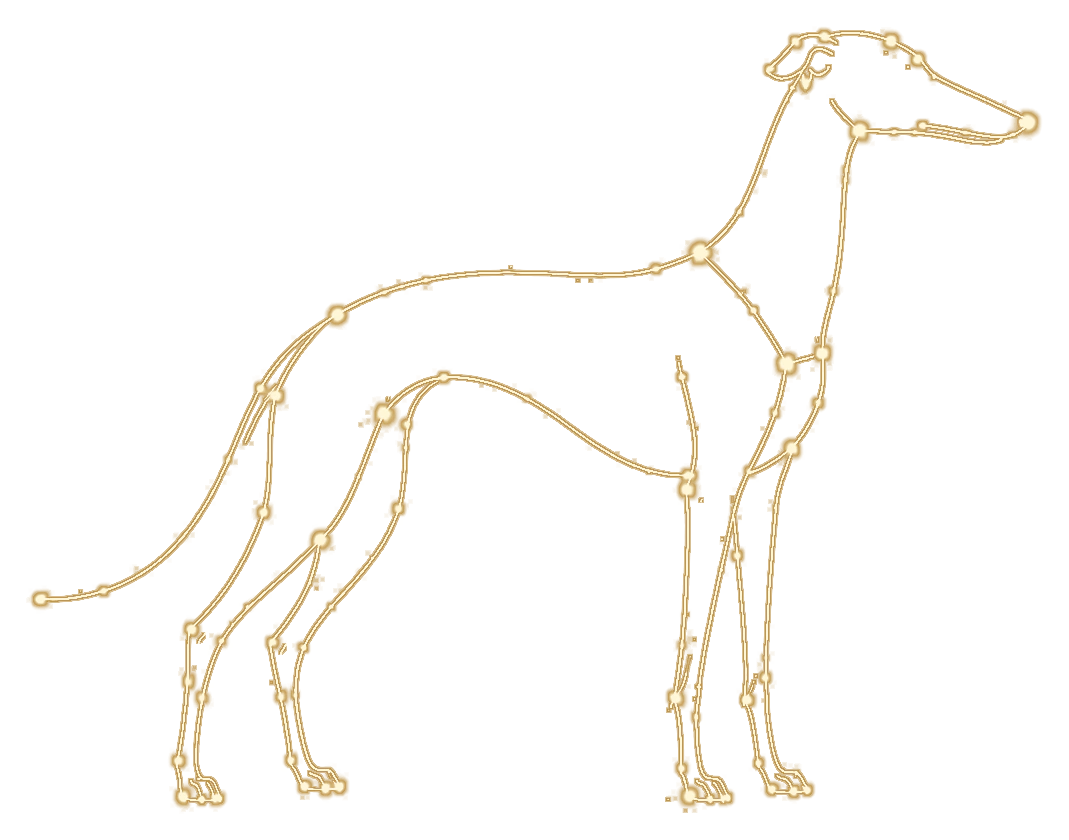
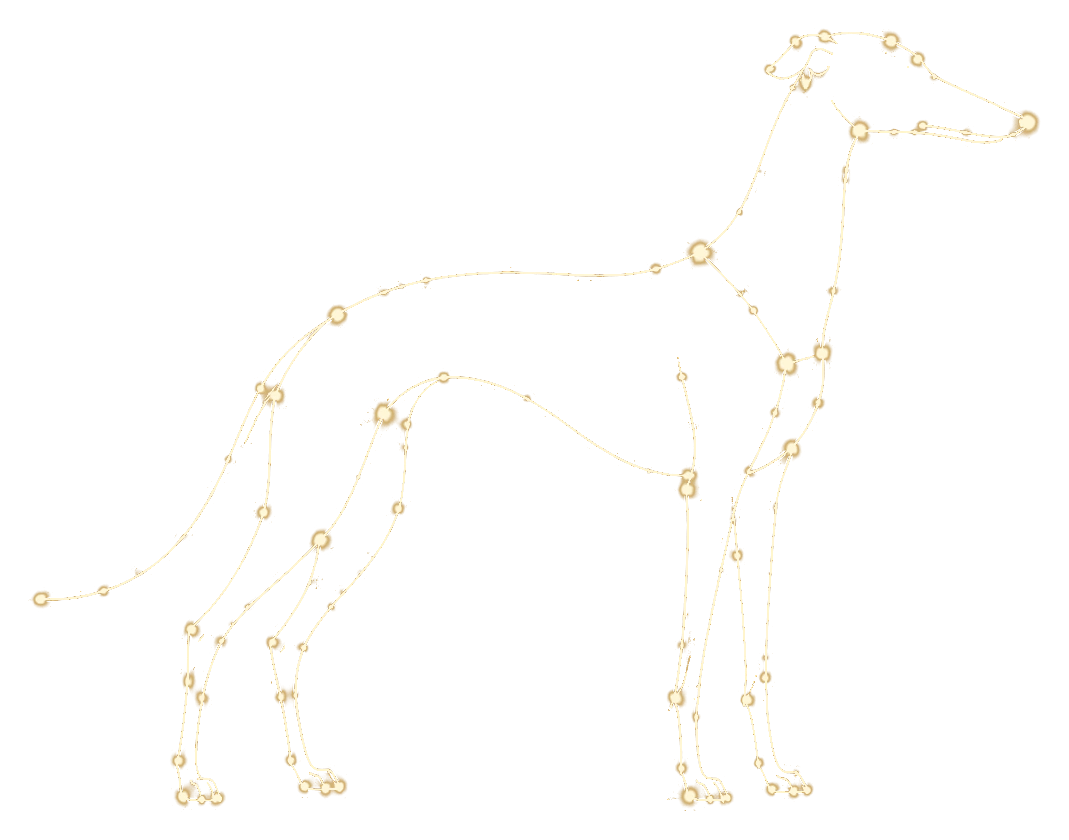
Correct hero depth and mascot point motion

diff --git a/src/app/home/AtlasHeroWorld.module.css b/src/app/home/AtlasHeroWorld.module.css
@@ -1,5 +1,5 @@
 .hero {
-  background: #fbfaf6;
+  background: #f1eee7;
   isolation: isolate;
   min-height: 720px;
   overflow: hidden;
@@ -8,27 +8,28 @@
 
 .hero::before {
   background:
-    radial-gradient(ellipse 30% 72% at 60% 46%, rgba(253, 252, 247, 0.96), transparent 76%),
-    radial-gradient(ellipse 42% 98% at 82% 38%, rgba(156, 184, 204, 0.62), transparent 72%),
-    radial-gradient(ellipse 45% 112% at 106% 65%, rgba(83, 124, 158, 0.58), transparent 72%),
-    radial-gradient(ellipse 22% 50% at 75% 72%, rgba(224, 239, 239, 0.82), transparent 78%),
-    linear-gradient(105deg, transparent 29%, rgba(247, 248, 245, 0.72) 43%, rgba(216, 229, 237, 0.42) 64%, rgba(137, 165, 187, 0.35));
+    radial-gradient(ellipse 36% 44% at 64% 84%, rgba(78, 126, 153, 0.42), transparent 82%),
+    radial-gradient(ellipse 58% 118% at 103% 48%, rgba(72, 111, 147, 0.54), rgba(116, 151, 177, 0.4) 42%, rgba(187, 207, 216, 0.2) 70%, transparent 88%),
+    radial-gradient(ellipse 48% 92% at 76% 65%, rgba(113, 174, 166, 0.2), transparent 78%),
+    radial-gradient(ellipse 54% 92% at 50% 43%, rgba(249, 247, 241, 0.58), rgba(230, 232, 228, 0.28) 56%, transparent 86%),
+    linear-gradient(102deg, rgba(245, 242, 235, 0.18), rgba(219, 226, 226, 0.34) 43%, rgba(128, 159, 181, 0.42) 73%, rgba(81, 120, 153, 0.5));
   content: "";
   inset: 0;
-  mask-image: linear-gradient(to right, transparent 25%, rgba(0, 0, 0, 0.34) 39%, black 58%);
   pointer-events: none;
   position: absolute;
 }
 
 .hero::after {
-  background: linear-gradient(to bottom, transparent, rgba(247, 242, 234, 0.68) 58%, var(--atlas-field-warm));
+  background:
+    radial-gradient(ellipse 29% 118% at 64% 112%, rgba(92, 136, 157, 0.24), transparent 74%),
+    linear-gradient(to bottom, transparent, rgba(241, 237, 229, 0.32) 62%, rgba(236, 231, 222, 0.64));
   bottom: 0;
   content: "";
   height: 176px;
   inset-inline: 0;
   pointer-events: none;
   position: absolute;
-  z-index: 8;
+  z-index: 3;
 }
 
 .copyShell {
@@ -114,7 +115,7 @@
 
 .hazeDawn {
   animation: haze-dawn 24s ease-in-out 2s infinite;
-  background: rgba(255, 252, 242, 0.78);
+  background: rgba(255, 252, 242, 0.66);
   height: 56%;
   left: 43%;
   top: 18%;
@@ -123,7 +124,7 @@
 
 .hazeBlue {
   animation: haze-blue 22s ease-in-out 4s infinite;
-  background: rgba(102, 142, 174, 0.3);
+  background: rgba(91, 133, 167, 0.3);
   height: 88%;
   left: 62%;
   top: -4%;
@@ -132,7 +133,7 @@
 
 .hazeTeal {
   animation: haze-teal 27s ease-in-out 7s infinite;
-  background: rgba(114, 177, 168, 0.2);
+  background: rgba(100, 166, 158, 0.2);
   height: 47%;
   left: 59%;
   top: 47%;
@@ -141,7 +142,7 @@
 
 .hazeViolet {
   animation: haze-violet 26s ease-in-out 1s infinite;
-  background: rgba(123, 121, 168, 0.22);
+  background: rgba(111, 109, 158, 0.22);
   height: 54%;
   left: 83%;
   top: 33%;
@@ -151,15 +152,15 @@
 .worldLens {
   animation: lens-breathe 28s ease-in-out 1.8s infinite;
   background:
-    radial-gradient(ellipse at 41% 43%, rgba(253, 254, 250, 0.88), transparent 24%),
-    radial-gradient(ellipse at 65% 52%, rgba(173, 203, 217, 0.28), transparent 48%),
-    radial-gradient(ellipse at 88% 64%, rgba(79, 118, 153, 0.25), transparent 60%);
-  border: 1px solid rgba(119, 151, 175, 0.2);
-  box-shadow: inset 0 0 110px rgba(248, 251, 248, 0.62), 0 0 90px rgba(172, 198, 212, 0.2);
-  height: 118%;
-  left: 43%;
-  top: -13%;
-  width: 69%;
+    radial-gradient(ellipse at 35% 44%, rgba(251, 250, 246, 0.58), transparent 28%),
+    radial-gradient(ellipse at 64% 54%, rgba(151, 190, 207, 0.28), transparent 54%),
+    radial-gradient(ellipse at 90% 62%, rgba(69, 109, 145, 0.26), transparent 68%);
+  border: 0;
+  box-shadow: inset 0 0 132px rgba(241, 247, 246, 0.36);
+  height: 126%;
+  left: 34%;
+  top: -17%;
+  width: 84%;
 }
 
 .trajectoryField {
@@ -181,6 +182,7 @@
 .relationship {
   fill: none;
   stroke-linecap: round;
+  stroke-linejoin: round;
   vector-effect: non-scaling-stroke;
 }
 
@@ -245,8 +247,10 @@
 }
 
 .related {
-  animation: none;
+  animation: relation-focus-draw 0.78s cubic-bezier(0.18, 0.72, 0.22, 1) forwards;
   opacity: 1;
+  stroke-dasharray: 320;
+  stroke-dashoffset: 0;
   stroke-width: 1.75;
 }
 
@@ -629,6 +633,7 @@
 @keyframes orbit-arrive { to { opacity: 0.88; } }
 @keyframes fine-arrive { to { opacity: 0.6; } }
 @keyframes relation-arrive { to { opacity: 0.62; } }
+@keyframes relation-focus-draw { from { opacity: 0.28; stroke-dashoffset: 320; } to { opacity: 1; stroke-dashoffset: 0; } }
 @keyframes cluster-arrive { to { opacity: 0.66; } }
 @keyframes anchor-arrive { from { opacity: 0; scale: 0.76; } to { opacity: 1; scale: 1; } }
 @keyframes point-arrive { to { opacity: 0.48; } }
@@ -678,10 +683,10 @@
 
   .hero::before {
     background:
-      radial-gradient(ellipse 100% 52% at 70% 77%, rgba(151, 179, 199, 0.62), transparent 72%),
-      radial-gradient(ellipse 74% 44% at 108% 66%, rgba(79, 117, 151, 0.44), transparent 75%),
-      radial-gradient(ellipse 58% 35% at 50% 71%, rgba(248, 252, 250, 0.92), transparent 76%);
-    mask-image: linear-gradient(to bottom, transparent 37%, rgba(0, 0, 0, 0.66) 49%, black 63%);
+      radial-gradient(ellipse 90% 50% at 34% 82%, rgba(244, 241, 234, 0.5), transparent 78%),
+      radial-gradient(ellipse 112% 64% at 76% 78%, rgba(116, 158, 183, 0.58), transparent 78%),
+      radial-gradient(ellipse 84% 52% at 108% 66%, rgba(69, 109, 145, 0.48), transparent 80%),
+      linear-gradient(to bottom, rgba(242, 239, 232, 0.16) 24%, rgba(194, 210, 217, 0.28) 54%, rgba(100, 139, 166, 0.4));
   }
 
   .copyShell {

diff --git a/src/app/home/AtlasHeroWorld.tsx b/src/app/home/AtlasHeroWorld.tsx
@@ -38,6 +38,19 @@ type SignatureCluster = {
   y: number;
 };
 
+function approvedStarPoints(
+  stars: readonly (readonly [xPercent: number, yPercent: number])[],
+  width: number,
+  height: number,
+): readonly SignaturePoint[] {
+  return stars.map(([xPercent, yPercent], index) => {
+    const x = 66 - width / 2 + (xPercent / 100) * width;
+    const y = 48 - height / 2 + (yPercent / 100) * height;
+    const size = index % 7 === 0 ? 3 : index % 3 === 0 ? 2.5 : 2;
+    return [x, y, x, y, size] as const;
+  });
+}
+
 const anchors: readonly AnchorDefinition[] = [
   { id: "question", label: "QUESTION", x: 52, y: 48, mobileX: 16, mobileY: 49, depth: "major" },
   { id: "jurisdiction", label: "JURISDICTION", x: 68, y: 20, mobileX: 39, mobileY: 32, depth: "major" },
@@ -110,17 +123,36 @@ const signatureClusters: readonly SignatureCluster[] = [
   {
     id: "fox", label: "Fox constellation", x: 82, y: 13, mobileX: 73, mobileY: 7,
     paths: ["M18 26Q27 10 38 31", "M62 31Q75 10 82 28", "M28 45L50 68L72 45", "M73 59Q95 60 84 79"],
-    points: [[12, 47, 18, 26, 3], [39, 8, 38, 31, 2], [72, 14, 62, 31, 2.5], [109, 43, 82, 28, 3], [29, 78, 28, 45, 2], [65, 63, 72, 45, 2.5], [91, 84, 50, 68, 3], [119, 65, 84, 79, 1.8]],
+    points: approvedStarPoints([
+      [6.5, 35.2], [12.9, 15.1], [14.2, 59.5], [25.9, 92.2], [30, 75.3], [30.1, 93.9], [30.5, 27.3], [34.2, 80],
+      [36.1, 9.7], [37.8, 58.4], [41.4, 32], [43.6, 49.6], [47.3, 71.4], [50.6, 64.8], [54.9, 47.6], [56.9, 93.4],
+      [65.1, 69.5], [67.2, 7.1], [67.5, 18.8], [67.9, 42.5], [69.1, 25.2], [72.9, 75.4], [74.3, 81.6], [76.4, 14.6],
+      [78.3, 61.6], [78.3, 93.9], [79.9, 67.5], [80.4, 7], [81.5, 83.2], [81.9, 36.8], [85.5, 20.7], [92.1, 30],
+    ], 222, 170),
   },
   {
     id: "cat", label: "Cat constellation", x: 88, y: 76, mobileX: 76, mobileY: 78,
     paths: ["M22 34L31 17L41 34", "M59 34L70 17L78 36", "M30 47L50 69L72 47", "M72 62Q91 60 89 80"],
-    points: [[12, 34, 22, 34, 2.5], [35, 9, 31, 17, 2], [68, 12, 41, 34, 3], [112, 32, 70, 17, 2], [27, 76, 78, 36, 2.5], [61, 63, 30, 47, 1.8], [90, 84, 72, 47, 3], [119, 67, 50, 69, 2], [79, 28, 89, 80, 1.8]],
+    points: approvedStarPoints([
+      [6.1, 37.5], [6.2, 17.6], [7.4, 29.2], [13.7, 94.4], [13.9, 57.6], [14.3, 50], [14.5, 44.7], [14.8, 22],
+      [17.5, 70], [18.1, 94.9], [18.2, 81.6], [19.6, 89.6], [23.5, 66.2], [25.5, 20.8], [26.6, 94.5], [30.9, 82.8],
+      [31.7, 14.6], [35, 39], [35.1, 73.2], [35.1, 94.3], [39.3, 30.7], [41.6, 88.5], [42.1, 48.7], [46.4, 70],
+      [53.7, 58.9], [55.6, 18.4], [58.9, 94.3], [59.2, 10], [62.2, 54.5], [64.2, 87.3], [69.9, 38.7], [72, 5.2],
+      [72, 69.5], [73.5, 16], [74.1, 51.3], [78.4, 65.4], [80.4, 84.2], [81.4, 29.1], [82.4, 76.8], [86.3, 39.1],
+      [87.6, 10.4], [94.2, 21.7],
+    ], 150, 174),
   },
   {
     id: "dog", label: "Dog constellation", x: 63, y: 84, mobileX: 28, mobileY: 88,
     paths: ["M18 31Q28 20 38 38", "M62 38Q73 20 82 32", "M30 46L49 69", "M49 69L70 46", "M40 72Q57 83 76 70"],
-    points: [[10, 48, 18, 31, 2], [33, 11, 38, 38, 2.5], [69, 14, 62, 38, 2], [109, 40, 82, 32, 3], [24, 78, 30, 46, 2], [61, 64, 70, 46, 2.5], [91, 83, 49, 69, 3], [118, 65, 40, 72, 1.8], [78, 27, 76, 70, 2]],
+    points: approvedStarPoints([
+      [3.8, 71.3], [16.7, 90.5], [17.3, 94.5], [17.7, 80.9], [17.9, 74.9], [18.8, 83], [19.7, 95], [24.6, 60.9],
+      [25.2, 46.8], [25.5, 76.5], [26.7, 82.8], [27.2, 90.4], [28.6, 93.5], [30, 64.2], [31.1, 93.6], [31.5, 37.5],
+      [36, 49.3], [37.2, 60.5], [37.9, 50.5], [41.5, 44.9], [61.3, 31.9], [63.3, 83], [63.7, 91.4], [64.4, 57.6],
+      [64.5, 94.7], [65.5, 30.1], [68.9, 66.1], [69.9, 83.3], [71.5, 80.6], [72.2, 93.9], [73.6, 43.3], [74, 53.4],
+      [74.4, 5], [74.8, 94], [75.1, 9.8], [76.9, 41.9], [77.1, 4.3], [80.4, 15.5], [83.3, 4.9], [85.8, 7],
+      [86.1, 15.1], [95.9, 14.8],
+    ], 222, 174),
   },
 ];
 
@@ -153,7 +185,7 @@ function AtlaslingCluster({ cluster }: { cluster: SignatureCluster }) {
         <i
           className={styles.clusterPoint}
           key={`${cluster.id}-${index}`}
-          style={{ "--cluster-point-size": `${size}px`, "--rest-x": `${restX}px`, "--rest-y": `${restY}px`, "--shape-dx": `${shapeX - restX}px`, "--shape-dy": `${shapeY - restY}px` } as CSSProperties}
+          style={{ "--cluster-point-size": `${size}px`, "--point-build-delay": `${index * 0.065}s`, "--rest-x": `${restX}px`, "--rest-y": `${restY}px`, "--shape-dx": `${shapeX - restX}px`, "--shape-dy": `${shapeY - restY}px` } as CSSProperties}
         />
       ))}
     </div>
@@ -183,7 +215,7 @@ export function AtlasHeroWorld({ body, eyebrow, line1, line2, line3 }: AtlasHero
 
   return (
     <section className={styles.hero}>
-      <div className={styles.world} data-active-anchor={activeAnchor ?? undefined} onPointerLeave={() => setActiveAnchor(null)} onPointerMove={handlePointerMove}>
+      <div className={styles.world} data-active-anchor={activeAnchor ?? undefined} data-atlas-hero-world onPointerLeave={() => setActiveAnchor(null)} onPointerMove={handlePointerMove}>
         <div aria-hidden="true" className={styles.atmosphericCanvas}>
           <span className={`${styles.haze} ${styles.hazeDawn}`} />
           <span className={`${styles.haze} ${styles.hazeBlue}`} />

diff --git a/src/app/home/fox-constellation-proof.css b/src/app/home/fox-constellation-proof.css
@@ -1,6 +1,7 @@
 /* Atlasling constellation silhouettes.
-   Resting state: trigger stars only. Hover/focus: airy recognisable silhouettes.
-   No filled mascot bodies, no facial detail reconstruction, no row layout. */
+   Resting state: trigger stars only. World hover: approved constellation stars
+   assemble without connector lines. Direct mascot hover/focus: the complete
+   approved constellation holds still. */
 
 [data-atlasling-cluster] {
   animation: none !important;
@@ -8,9 +9,21 @@
   z-index: 8 !important;
 }
 
-[data-atlasling-cluster] > svg,
-[data-atlasling-cluster] > i {
+[data-atlasling-cluster] > svg {
   display: none !important;
+}
+
+[data-atlasling-cluster] > i {
+  animation: none !important;
+  background: radial-gradient(circle, rgba(255, 255, 252, 1) 0 28%, var(--atlasling-star) 34% 62%, transparent 72%) !important;
+  box-shadow: 0 0 5px 1px var(--atlasling-glow), 0 0 11px 2px rgba(248, 250, 246, 0.54) !important;
+  display: block !important;
+  height: calc(var(--cluster-point-size) * 1.45) !important;
+  opacity: 0;
+  transform: translate(-50%, -50%) scale(0.35);
+  transition: none !important;
+  width: calc(var(--cluster-point-size) * 1.45) !important;
+  z-index: 2;
 }
 
 /* One quiet trigger-star per mascot. The cluster positions remain the authored
@@ -35,16 +48,19 @@
 }
 
 [data-atlasling-cluster="fox"] {
+  --cluster-build-offset: 0s;
   --atlasling-star: #d8a748;
   --atlasling-glow: rgba(216, 167, 72, 0.34);
 }
 
 [data-atlasling-cluster="cat"] {
+  --cluster-build-offset: -2.1s;
   --atlasling-star: #777da0;
   --atlasling-glow: rgba(119, 125, 160, 0.28);
 }
 
 [data-atlasling-cluster="dog"] {
+  --cluster-build-offset: -4.2s;
   --atlasling-star: #638e87;
   --atlasling-glow: rgba(99, 142, 135, 0.28);
 }
@@ -94,9 +110,7 @@
 /* Dog: approved whippet constellation artwork with its sky removed. */
 [data-atlasling-cluster="dog"] > span:first-child {
   background: url("/atlaslings/dog-constellation-approved.webp") center / contain no-repeat !important;
-  filter:
-    drop-shadow(0 0 1px rgba(255, 244, 207, 0.74))
-    drop-shadow(0 0 5px rgba(218, 168, 72, 0.38));
+  filter: drop-shadow(0 0 5px rgba(255, 231, 169, 0.3));
   height: 174px !important;
   transform: translate(-50%, -50%) scale(0.76) !important;
   transform-origin: 50% 50% !important;
@@ -125,12 +139,48 @@
 
 [data-atlasling-cluster="dog"]:hover > span:first-child,
 [data-atlasling-cluster="dog"]:focus-visible > span:first-child {
-  filter:
-    drop-shadow(0 0 1px rgba(255, 248, 218, 0.96))
-    drop-shadow(0 0 5px rgba(218, 168, 72, 0.62))
-    drop-shadow(0 0 10px rgba(255, 231, 169, 0.36));
-  opacity: 0.94 !important;
+  filter: drop-shadow(0 0 8px rgba(255, 231, 169, 0.44));
+  opacity: 0.88 !important;
   transform: translate(-50%, -50%) scale(1) !important;
+}
+
+/* The ambient state uses star coordinates sampled from each approved asset.
+   Staggered point light builds the silhouette; authored connector lines remain
+   reserved for the complete image on direct hover/focus. */
+@media (hover: hover) and (pointer: fine) {
+  [data-atlas-hero-world]:hover [data-atlasling-cluster] > i {
+    animation: atlasling-point-build 6.2s ease-in-out infinite !important;
+    animation-delay: calc(var(--point-build-delay) + var(--cluster-build-offset)) !important;
+  }
+
+  [data-atlas-hero-world]:hover [data-atlasling-cluster]:hover > i,
+  [data-atlas-hero-world]:hover [data-atlasling-cluster]:focus-visible > i {
+    animation: none !important;
+    opacity: 0 !important;
+  }
+}
+
+@keyframes atlasling-point-build {
+  0%, 7%, 100% {
+    opacity: 0;
+    transform: translate(-50%, -50%) scale(0.35);
+  }
+  17% {
+    opacity: 0.98;
+    transform: translate(-50%, -50%) scale(1.35);
+  }
+  29%, 68% {
+    opacity: 0.86;
+    transform: translate(-50%, -50%) scale(1);
+  }
+  84% {
+    opacity: 0.18;
+    transform: translate(-50%, -50%) scale(0.82);
+  }
+  93% {
+    opacity: 0;
+    transform: translate(-50%, -50%) scale(0.5);
+  }
 }
 
 @media (max-width: 900px) {
@@ -164,7 +214,19 @@
 
 @media (prefers-reduced-motion: reduce) {
   [data-atlasling-cluster] > span:first-child,
+  [data-atlasling-cluster] > i,
   [data-atlasling-cluster]::before {
     transition: none !important;
+  }
+
+  [data-atlas-hero-world]:hover [data-atlasling-cluster] > i {
+    animation: none !important;
+    opacity: 0.48 !important;
+    transform: translate(-50%, -50%) scale(1) !important;
+  }
+
+  [data-atlas-hero-world]:hover [data-atlasling-cluster]:hover > i,
+  [data-atlas-hero-world]:hover [data-atlasling-cluster]:focus-visible > i {
+    opacity: 0 !important;
   }
 }
